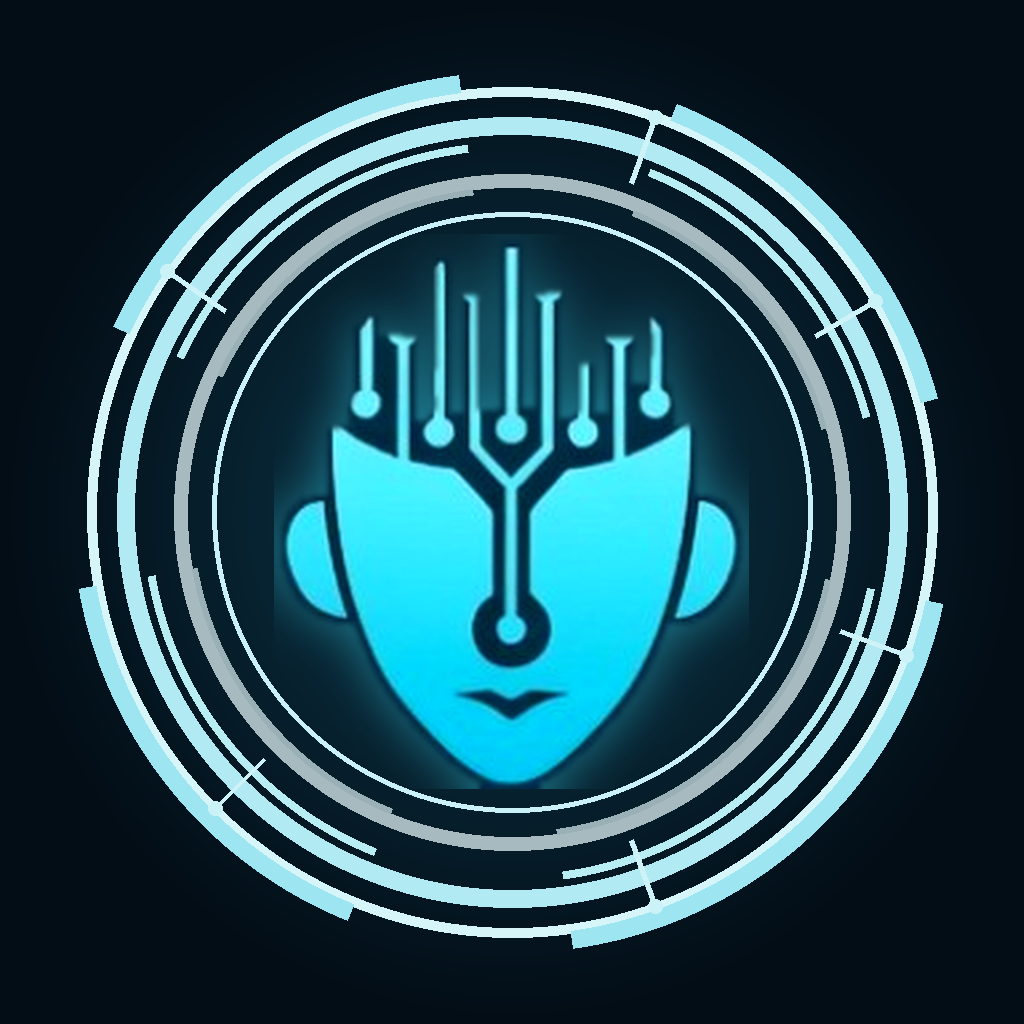
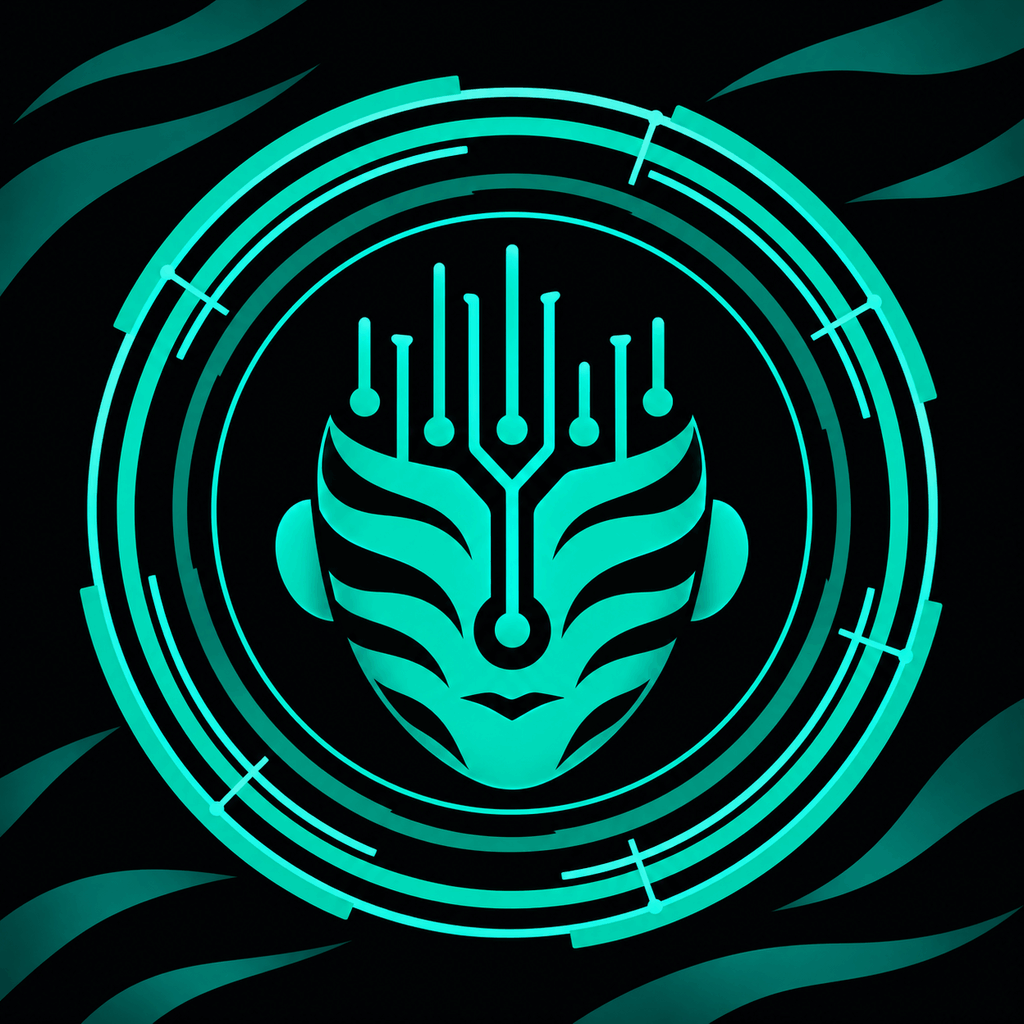
Use the teal and black tiger-stripe Korlix emblem throughout Fax Number

diff --git a/website/fax-number/index.html b/website/fax-number/index.html
@@ -16,13 +16,13 @@
     <title>FAX Number by Korlix</title>
     <link rel="stylesheet" href="app.css" />
     <link rel="manifest" href="manifest.webmanifest" />
-    <link rel="icon" href="korlix.png" />
-    <link rel="apple-touch-icon" href="korlix.png" />
+    <link rel="icon" href="korlix-teal-tiger-192.png" />
+    <link rel="apple-touch-icon" href="korlix-teal-tiger-192.png" />
   </head>
   <body>
     <template id="brand"
       ><span class="brand"
-        ><img src="korlix.png" alt="" /><span><b>FAX Number</b><small>by Korlix</small></span></span
+        ><img src="korlix-teal-tiger-192.png" alt="" /><span><b>FAX Number</b><small>by Korlix</small></span></span
       ></template
     >
     <main id="login">
